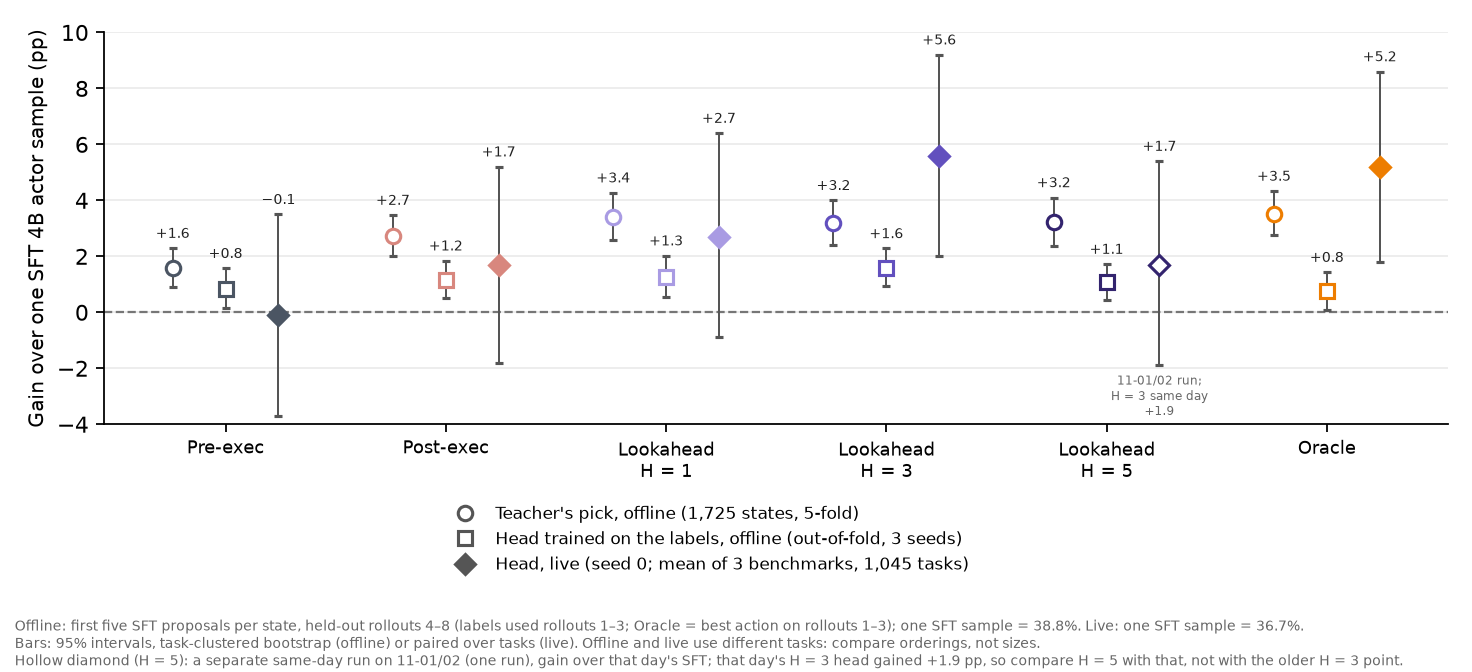
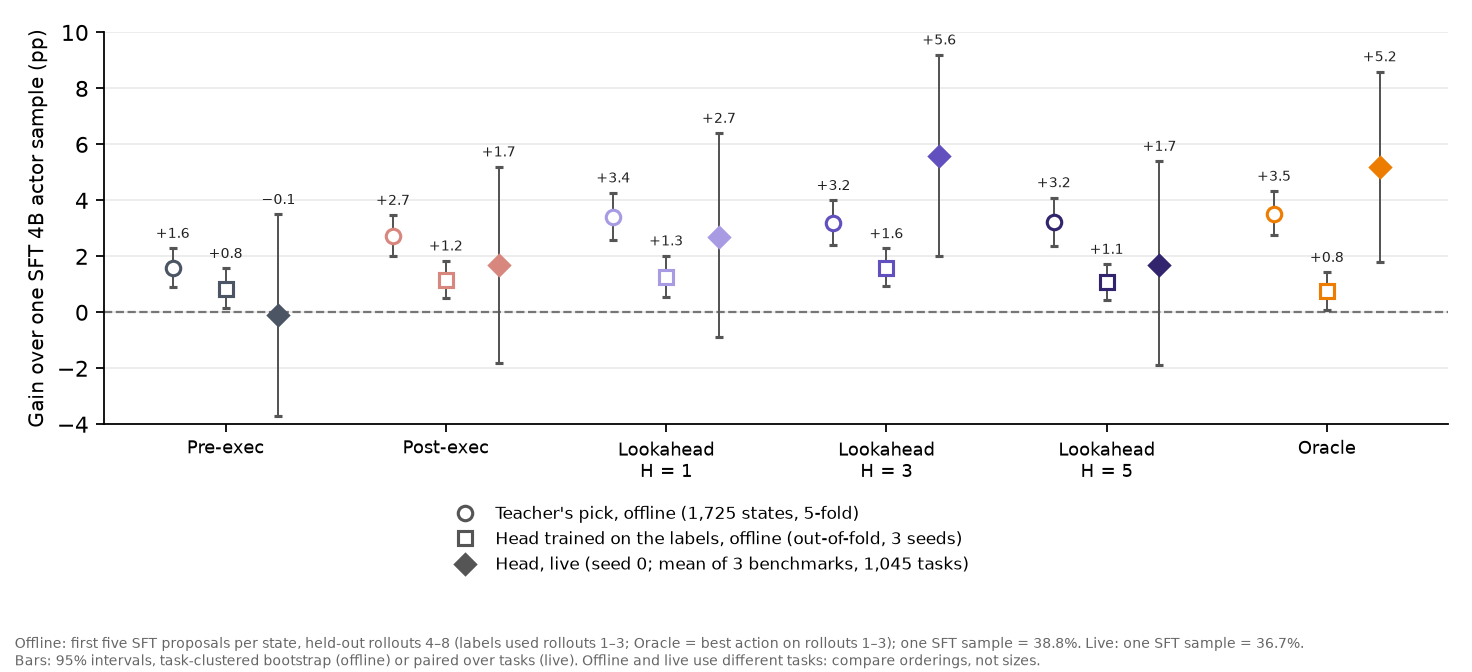
Label plots: draw live H = 5 like the other live points, drop extra annotation

Changed region(s): [[0.0, 0.9062, 0.9688, 1.0], [0.75, 0.5625, 0.8125, 0.5938], [0.7812, 0.375, 0.8125, 0.4062]]

diff --git a/openwebrl/docs/arm_results/rl_integration/selection-label-same-state-kfold-20261101-plot.py b/openwebrl/docs/arm_results/rl_integration/selection-label-same-state-kfold-20261101-plot.py
@@ -11,7 +11,7 @@ valid draws only. Teacher = the label's argmax among the five (ties averaged); h
 Live: the seed-0 head, three-benchmark mean overall success (Online-Mind2Web 300 by gpt-5.6-terra, WebVoyager 595 and
 DeepShop 150 by GPT-4o) minus SFT 4B (selection-data-scale-20261023.json; post-execution from
 selection-label-stages-20261027.json "live"). Lookahead H = 5 was run live separately on 2026-11-01/02 (one run, same protocol and judges) with same-day SFT and
-H = 3 controls; its point is the same-day gain over SFT, drawn hollow (selection-label-k5-live-20261102.json, "h5 - sft").
+H = 3 controls; its point is the same-day gain over SFT (selection-label-k5-live-20261102.json, "h5 - sft").
 Read it against that day's H = 3 head (+1.9 over SFT), not the older H = 3 point.
 Each point is relative to one SFT sample on its own states/tasks; 95% intervals, task-clustered bootstrap (offline) or paired
 over tasks (live).
@@ -61,9 +61,6 @@ for x, (name, color, src, live) in enumerate(ROWS):
             ax.text(x + dx, 0.4, "not run live", ha="center", va="bottom", fontsize=6, color=MUTED, rotation=90)
             continue
         d, lo, hi = v
-        if live == "K5" and m == "D":  # separate same-day run: hollow, annotated with that day's H = 3
-            filled = False
-            ax.text(x + dx, lo - 0.3, "11-01/02 run;\nH = 3 same day\n" + f"{K5_H3[0]:+.1f}".replace("-", "−"), ha="center", va="top", fontsize=5.6, color=MUTED)
         ax.errorbar(x + dx, d, yerr=[[d - lo], [hi - d]], fmt=m, ms=6, color=color, ecolor="#555555", capsize=1.8,
                     lw=0.9, zorder=3, markeredgewidth=1.4, markerfacecolor=color if filled else "white",
                     markeredgecolor=color)
@@ -83,6 +80,6 @@ fig.text(0.01, 0.01, "Hollow = teacher, solid = head; circle = train states, squ
          "five SFT proposals per state, held-out rollouts 4–8; Oracle = best action\non rollouts 1–3; offline heads average 3 seeds, "
          "the live head is seed 0. Bars: 95% intervals (task-clustered bootstrap offline, paired over tasks live). Each point is "
          f"relative to one SFT sample\non its own states or tasks (train {TR['train']['sft_sample']:.1f}%, held-out "
-         f"{KF['sft_sample']:.1f}%, live 3-benchmark mean {LIVE['SFT 4B']['mean_overall']:.1f}%)." + "\nHollow diamond (H = 5): a separate same-day run on 11-01/02 (one run), gain over that day's SFT; that day's H = 3 head gained " + f"{K5_H3[0]:+.1f}".replace("-", "−") + " pp, so compare H = 5 with that, not with the older H = 3 point.", fontsize=6.5, color=MUTED)
+         f"{KF['sft_sample']:.1f}%, live 3-benchmark mean {LIVE['SFT 4B']['mean_overall']:.1f}%).", fontsize=6.5, color=MUTED)
 fig.tight_layout(rect=(0, 0.1, 1, 1))
 fig.savefig(HERE / "selection-label-same-state-kfold-20261101.png", dpi=160); plt.close(fig)

diff --git a/openwebrl/docs/arm_results/rl_integration/selection-label-stages-kfold-20261101-plot.py b/openwebrl/docs/arm_results/rl_integration/selection-label-stages-kfold-20261101-plot.py
@@ -11,7 +11,7 @@ sample of the same SFT 4B actor at three stages.
     (Online-Mind2Web 300 by gpt-5.6-terra, WebVoyager 595 and DeepShop 150 by GPT-4o) minus one SFT 4B sample, paired 95%
     bootstrap over tasks (selection-data-scale-20261023.json; post-execution from selection-label-stages-20261027.json).
     Lookahead H = 5 was run live separately on 2026-11-01/02 (one run, same protocol and judges) with same-day SFT and
-H = 3 controls; its point is the same-day gain over SFT, drawn hollow (selection-label-k5-live-20261102.json, "h5 - sft").
+H = 3 controls; its point is the same-day gain over SFT (selection-label-k5-live-20261102.json, "h5 - sft").
 Read it against that day's H = 3 head (+1.9 over SFT), not the older H = 3 point.
 Stages (1)-(2) share states; (3) uses different tasks, so compare orderings across stages, not sizes. The prior judge
 formulations (WebArbiter, WebShepherd, PRO-CUA) were scored as teachers on a different 1,010-state set and are left out;
@@ -57,9 +57,6 @@ for x, (_, color, src, live) in enumerate(ROWS):
             ax.text(x + dx, 0.4, "not run\nlive", ha="center", va="bottom", fontsize=6, color=MUTED)
             continue
         d, lo, hi = v
-        if live == "K5" and m == "D":  # separate same-day run: hollow, annotated with that day's H = 3
-            filled = False
-            ax.text(x + dx, lo - 0.3, "11-01/02 run;\nH = 3 same day\n" + f"{K5_H3[0]:+.1f}".replace("-", "−"), ha="center", va="top", fontsize=5.6, color=MUTED)
         ax.errorbar(x + dx, d, yerr=[[d - lo], [hi - d]], fmt=m, ms=6.5, color=color, ecolor="#555555", capsize=2,
                     lw=0.9, zorder=3, markeredgewidth=1.4, markerfacecolor=color if filled else "white",
                     markeredgecolor=color)
@@ -75,6 +72,6 @@ ax.legend(handles, [l for l, _, _ in MARK], frameon=False, fontsize=7.5, loc="up
 fig.text(0.01, 0.01, "Offline: first five SFT proposals per state, held-out rollouts 4–8 (labels used rollouts 1–3; Oracle = best "
          f"action on rollouts 1–3); one SFT sample = {K['sft_sample']:.1f}%. Live: one SFT sample = "
          f"{LIVE['SFT 4B']['mean_overall']:.1f}%.\nBars: 95% intervals, task-clustered bootstrap (offline) or paired over tasks "
-         "(live). Offline and live use different tasks: compare orderings, not sizes." + "\nHollow diamond (H = 5): a separate same-day run on 11-01/02 (one run), gain over that day's SFT; that day's H = 3 head gained " + f"{K5_H3[0]:+.1f}".replace("-", "−") + " pp, so compare H = 5 with that, not with the older H = 3 point.", fontsize=6.5, color=MUTED)
+         "(live). Offline and live use different tasks: compare orderings, not sizes.", fontsize=6.5, color=MUTED)
 fig.tight_layout(rect=(0, 0.07, 1, 1))
 fig.savefig(HERE / "selection-label-stages-kfold-20261101.png", dpi=160); plt.close(fig)

diff --git a/openwebrl/docs/arm_results/rl_integration/selection-label-setups-kfold-20261101-plot.py b/openwebrl/docs/arm_results/rl_integration/selection-label-setups-kfold-20261101-plot.py
@@ -9,7 +9,7 @@
 (2) Live: the seed-0 head trained on the original 1,380 training states, three-benchmark mean overall success
     (Online-Mind2Web 300 by gpt-5.6-terra, WebVoyager 595 and DeepShop 150 by GPT-4o; selection-data-scale-20261023.json,
     post-execution from selection-label-stages-20261027.json). Lookahead H = 5 was run live separately on 2026-11-01/02 (one run, same protocol and judges) with same-day SFT and
-H = 3 controls; its point is the same-day gain over SFT, drawn hollow (selection-label-k5-live-20261102.json, "h5 - sft").
+H = 3 controls; its point is the same-day gain over SFT (selection-label-k5-live-20261102.json, "h5 - sft").
 Read it against that day's H = 3 head (+1.9 over SFT), not the older H = 3 point.
 """
 import json
@@ -55,11 +55,7 @@ for ax, (title, kind, base) in zip(axes, PANELS):
             if live is None:
                 ax.text(x, 0.4, "not run\nlive", ha="center", va="bottom", fontsize=6.5, color=MUTED)
                 continue
-            if live == "K5":  # separate same-day run: hollow, annotated with that day's H = 3
-                point(ax, x, K5_H5, color, "D", False)
-                ax.text(x, K5_H5[1] - 0.3, "11-01/02 run;\nH = 3 same day\n" + f"{K5_H3[0]:+.1f}".replace("-", "−"), ha="center", va="top", fontsize=5.6, color=MUTED)
-                continue
-            point(ax, x, EXTRA.get(live) or LIVE[live]["minus_sft4b"], color, "D", True)
+            point(ax, x, K5_H5 if live == "K5" else (EXTRA.get(live) or LIVE[live]["minus_sft4b"]), color, "D", True)
         else:
             point(ax, x - 0.17, P[src]["teacher_minus_sft"], color, "o", False)
             point(ax, x + 0.17, P[src]["head_minus_sft"], color, "s", True)
@@ -75,6 +71,6 @@ fig.legend(handles, ["Teacher's pick (label)", "Head trained on the labels (3 se
            frameon=False, fontsize=8, loc="lower center", ncol=3, bbox_to_anchor=(0.5, 0.08))
 fig.text(0.01, 0.01, "Offline: each state's first five SFT proposals, scored on held-out rollouts 4–8 (labels used rollouts 1–3; "
          "Oracle = best action on rollouts 1–3). Bars: 95% intervals,\ntask-clustered bootstrap (offline) or paired over "
-         "tasks (live). Each panel's baseline is one SFT sample on its own states or tasks." + "\nHollow diamond (H = 5): a separate same-day run on 11-01/02 (one run), gain over that day's SFT; that day's H = 3 head gained " + f"{K5_H3[0]:+.1f}".replace("-", "−") + " pp, so compare H = 5 with that, not with the older H = 3 point.", fontsize=6.5, color=MUTED)
+         "tasks (live). Each panel's baseline is one SFT sample on its own states or tasks.", fontsize=6.5, color=MUTED)
 fig.tight_layout(rect=(0, 0.14, 1, 1))
 fig.savefig(HERE / "selection-label-setups-kfold-20261101.png", dpi=160); plt.close(fig)

diff --git a/openwebrl/docs/ARM_FINAL_RESULTS.md b/openwebrl/docs/ARM_FINAL_RESULTS.md
@@ -635,7 +635,7 @@ Its conservative all-attempt model total was $353.582380 ($348.649556 known usag
 - **Methods.** Every selector picks one of five candidates the frozen actor samples per step; "branch" data are the SFT-actor branching states collected for this project ([collection and labels](ARM_FORMULATIONS.md#lookahead-labels-current)), "Piotr's" the GPT-5.5-labelled panels of Piotr's release. SFT rows take a single sample. Training data reads states / panels (with the actions in each panel) / labels. Piotr's panels are five sampled actor actions each (about 13 per state), duplicates included, each labelled with one GPT-5.5 pick made before execution (from the screenshot and candidates only). Branch panels are one per state holding its 2–5 distinct SFT-proposed actions, reshuffled each epoch; branch states come from the tasks of Piotr's training split.
 - <a id="final-paired-bootstrap"></a>**How the paired 95% intervals are computed** (every "pp [95% CI]" difference and every plot error bar in the selection-head results). Both runs use the same frozen task list. Each task scores 1 if its single episode is valid and judged successful, else 0 (invalid episodes count as failures), and the per-task difference is d = run − reference ∈ {−1, 0, +1}; the point estimate is the mean of d. For one benchmark, draw 10,000 resamples of its tasks with replacement, each the size of the benchmark, and take the mean of d in each. For the three-benchmark mean, resample tasks independently within each benchmark (keeping 300 / 595 / 150 tasks) and average the three resampled means with weight 1/3 each. The interval is the 2.5th to 97.5th percentile of the 10,000 resampled values. The random seed is fixed in each analysis script (e.g. NumPy `default_rng(20261018)`; the data-scaling script uses Python `random.Random(0)`). Pairing on tasks removes task-difficulty variance shared by the two runs, so these intervals are narrower than comparing two per-run intervals; they do not include training-seed variance (one seed per live head), episode-sampling variance beyond the one episode per task, or run-date drift (DeepShop).
 - **Difference columns** are row − reference on the mean overall rate, [paired 95% bootstrap](#final-paired-bootstrap) with tasks resampled within each benchmark. Also: Piotr-data head − SFT 8B +4.8 [+1.0, +8.5]. Valid-only differences (tasks valid under both) agree within 1.1 pp.
-- **From teacher to live, per label source.** For each label, three gains over one sample of the same SFT 4B actor: the teacher's own pick offline and the head trained on those labels offline, both on all 1,725 branch states with task-level 5-fold heads ([method](#final-selection-label-kfold-20261101)), and the seed-0 head live (three-benchmark mean). Offline and live use different tasks, so compare orderings, not sizes. Online-Mind2Web here uses the current gpt-5.6-terra judge (all runs re-judged from saved requests), so the live gains are slightly lower than the o4-mini numbers above. Post-execution labels (Luna judging each action from its immediate result, added 2026-10-27) gain +1.7 pp [−1.8, +5.2] live (Online-Mind2Web −0.3, WebVoyager +4.0, DeepShop +1.3; [data](arm_results/rl_integration/selection-post-label-20261027.json)); DeepShop SFT varied 26.7–34.0% across three runs, so DeepShop gains carry run-date drift. Lookahead H = 5 (hollow diamond) comes from a separate [same-day run](#final-selection-label-k5-live-20261102) on 11-01/02: +1.7 [−1.9, +5.4] over that day's SFT, against +1.9 [−1.7, +5.6] for that day's H = 3 head. Bars are 95% intervals (task-clustered offline, [paired](#final-paired-bootstrap) live). [Plot script](arm_results/rl_integration/selection-label-stages-kfold-20261101-plot.py)
+- **From teacher to live, per label source.** For each label, three gains over one sample of the same SFT 4B actor: the teacher's own pick offline and the head trained on those labels offline, both on all 1,725 branch states with task-level 5-fold heads ([method](#final-selection-label-kfold-20261101)), and the seed-0 head live (three-benchmark mean). Offline and live use different tasks, so compare orderings, not sizes. Online-Mind2Web here uses the current gpt-5.6-terra judge (all runs re-judged from saved requests), so the live gains are slightly lower than the o4-mini numbers above. Post-execution labels (Luna judging each action from its immediate result, added 2026-10-27) gain +1.7 pp [−1.8, +5.2] live (Online-Mind2Web −0.3, WebVoyager +4.0, DeepShop +1.3; [data](arm_results/rl_integration/selection-post-label-20261027.json)); DeepShop SFT varied 26.7–34.0% across three runs, so DeepShop gains carry run-date drift. Lookahead H = 5 comes from a separate [same-day run](#final-selection-label-k5-live-20261102) on 11-01/02: +1.7 [−1.9, +5.4] over that day's SFT, against +1.9 [−1.7, +5.6] for that day's H = 3 head. Bars are 95% intervals (task-clustered offline, [paired](#final-paired-bootstrap) live). [Plot script](arm_results/rl_integration/selection-label-stages-kfold-20261101-plot.py)
 
   ![Gain over one SFT 4B sample for each label source at three stages: teacher pick offline and trained head offline (5-fold, 1,725 states), and the head live](arm_results/rl_integration/selection-label-stages-kfold-20261101.png)
 
